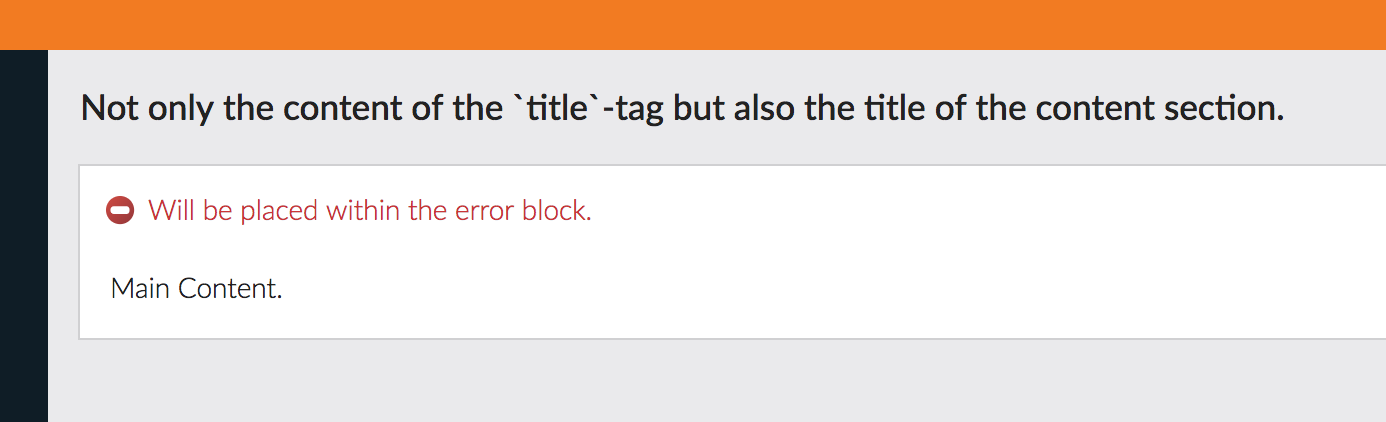
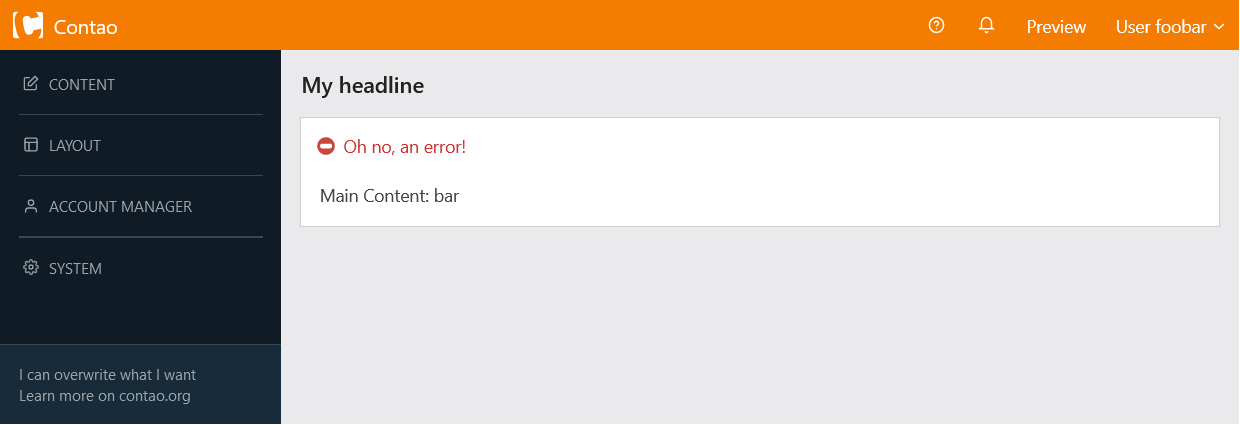
fix example

diff --git a/docs/dev/guides/back-end-routes.md b/docs/dev/guides/back-end-routes.md
@@ -46,6 +46,7 @@ class BackendController extends AbstractBackendController
             [
                 'error' => 'Oh no, an error!',
                 'title' => 'My title',
+                'headline' => 'My headline',
                 'version' => 'I can overwrite what I want',
                 'foo' => 'bar',
             ]
@@ -74,8 +75,6 @@ into `/templates`.
 
 ```twig
 {% extends "@Contao/be_main" %}
-
-{% block main_headline %}Headline{% endblock %}
 
 {% block main_content %}
     <div class="tl_listing_container">
